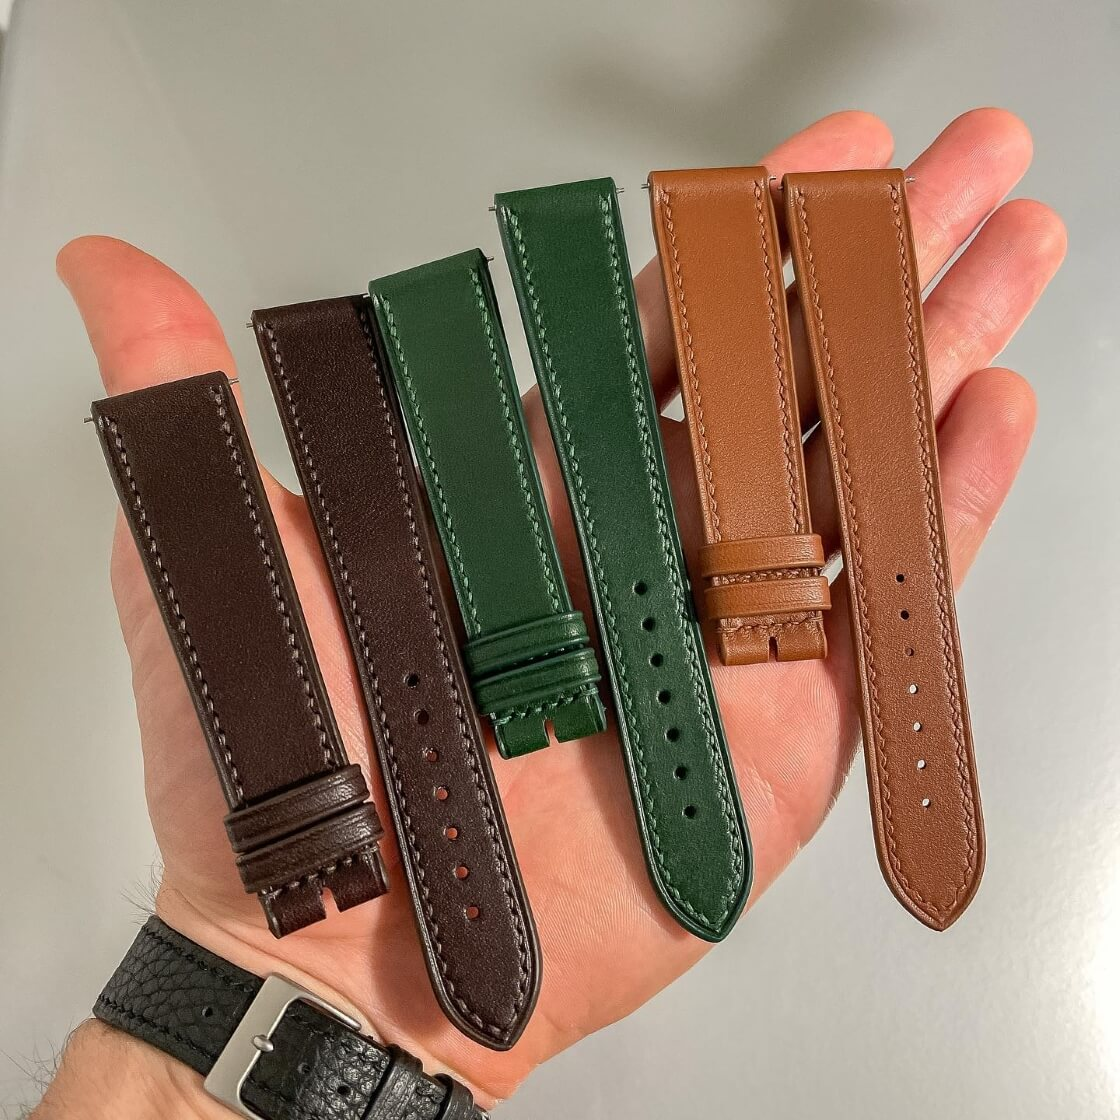
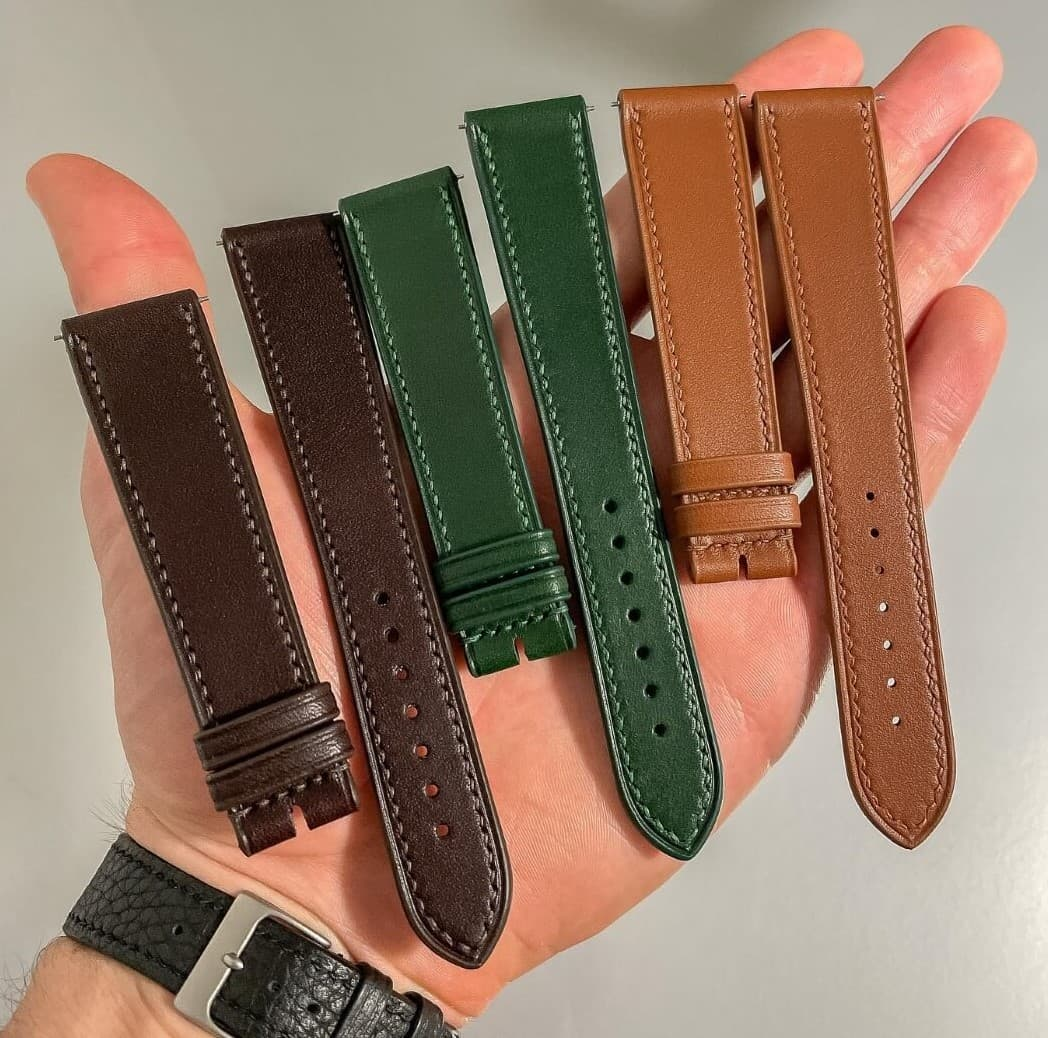
20231022 ff

diff --git a/leather.html b/leather.html
@@ -15,10 +15,10 @@
 
 	<link rel="canonical" href="https://www.straphunter.com/leather" />
 
-	<meta property="og:image" content="https://www.straphunter.com/images/og.png" />
+	<meta property="og:image" content="https://www.straphunter.com/images/cross-stitch-watch-strap-12.jpg" />
 
 	<meta name="twitter:card" content="summary_large_image" />
-	<meta name="twitter:image" content="https://www.straphunter.com/images/og.png" />
+	<meta name="twitter:image" content="https://www.straphunter.com/images/cross-stitch-watch-strap-12.jpg" />
 	<script type="application/ld+json">
     {
       "@context": "https://schema.org",
@@ -197,11 +197,11 @@
 	</ul>
 	
 	<br>
-	<p class="f14">In the photo: Seiko SNZG13 on <a href="https://singularstraps.se/collections/nato-premium" target="_blank" rel="noopener" class="showcase-link">CNS Watch Bands' vintage strap</a></p>
+	<p class="f14">In the photo: Unimatic on custom strap by TwoStitchStraps.</p>
 	
 	
 	</div>
-	<div class="zig-image z1"><img src="images/z-leather.jpg"  alt="brown leather watch strap" /></div>
+	<div class="zig-image z1"><img src="images/cross-stitch-watch-strap-12.jpg"  alt="brown leather watch strap" /></div>
 	</div>
 	</div>
 	</section>

diff --git a/rubber.html b/rubber.html
@@ -15,10 +15,10 @@
 
 	<link rel="canonical" href="https://www.straphunter.com/rubber" />
 
-	<meta property="og:image" content="https://www.straphunter.com/images/og.png" />
+	<meta property="og:image" content="https://www.straphunter.com/images/fkm-rubber-strap-04.jpg" />
 
 	<meta name="twitter:card" content="summary_large_image" />
-	<meta name="twitter:image" content="https://www.straphunter.com/images/og.png" />
+	<meta name="twitter:image" content="https://www.straphunter.com/images/fkm-rubber-strap-04.jpg" />
 
 	<script type="application/ld+json">
     {
@@ -198,10 +198,10 @@
 	</ul>
 	
 	<br>
-	<p class="f14">In the photo: Casio Duro on <a href="https://www.strapcode.com/collections/quick-release-rubber-watch-bands" target="_blank" rel="noopener" class="showcase-link">Strapcode's FKM Quick Release</a></p>
+	<p class="f14">In the photo: Citizen Nighthawk on the FKM quick release.</a></p>
 	
 	</div>
-	<div class="zig-image z1"><img src="images/z-rubber.jpg"  alt="rubber watch straps" /></div>
+	<div class="zig-image z1"><img src="images/fkm-rubber-strap-04.jpg"  alt="rubber watch straps" /></div>
 	</div>
 	</div>
 	</section>

diff --git a/handmade.html b/handmade.html
@@ -15,10 +15,10 @@
 
 	<link rel="canonical" href="https://www.straphunter.com/handmade" />
 
-	<meta property="og:image" content="https://www.straphunter.com/images/og.png" />
+	<meta property="og:image" content="https://www.straphunter.com/images/cross-stitch-watch-strap-06.jpg" />
 
 	<meta name="twitter:card" content="summary_large_image" />
-	<meta name="twitter:image" content="https://www.straphunter.com/images/og.png" />
+	<meta name="twitter:image" content="https://www.straphunter.com/images/cross-stitch-watch-strap-06.jpg" />
 
 	<script type="application/ld+json">
     {
@@ -197,7 +197,7 @@
 	<br>
 		<p class="f14">In the photo: Unimatic UC1 on <a href="https://www.twostitchstraps.com/collections/cross-stitch-leather-watch-straps" target="_blank" rel="noopener" class="showcase-link">TwoStitchStraps' Cross-stitch</a></p>
 	</div>
-	<div class="zig-image z1"><img src="images/z-handmade.jpg"  alt="black handmade leather watch strap" /></div>
+	<div class="zig-image z1"><img src="images/cross-stitch-watch-strap-06.jpg"  alt="black handmade leather watch strap" /></div>
 	</div>
 	</div>
 	</section>

diff --git a/canvas-pass-through.html b/canvas-pass-through.html
@@ -15,10 +15,10 @@
 
 	<link rel="canonical" href="https://www.straphunter.com/canvas-pass-through" />
 
-	<meta property="og:image" content="https://www.straphunter.com/images/og.png" />
+	<meta property="og:image" content="https://www.straphunter.com/images/haveston-canvas-nato-strap-10.jpgg" />
 
 	<meta name="twitter:card" content="summary_large_image" />
-	<meta name="twitter:image" content="https://www.straphunter.com/images/og.png" />
+	<meta name="twitter:image" content="https://www.straphunter.com/images/haveston-canvas-nato-strap-10.jpg" />
 
 	<script type="application/ld+json">
     {
@@ -201,7 +201,7 @@
 	<p class="f14">In the photo: Seiko SNZG13 on <a href="https://www.haveston.com/corp-canvas-series/21-659-HAV942C.html" target="_blank" rel="noopener" class="showcase-link">The Forecastle strap by Haveston</a></p>
 	
 	</div>
-	<div class="zig-image z1"><img src="images/z-canvas-nato.jpeg"  alt="grey canvas nato watch strap" /></div>
+	<div class="zig-image z1"><img src="images/haveston-canvas-nato-strap-10.jpg"  alt="grey canvas nato watch strap" /></div>
 	</div>
 	</div>
 	</section>

diff --git a/canvas-nato.html b/canvas-nato.html
@@ -15,10 +15,10 @@
 
 	<link rel="canonical" href="https://www.straphunter.com/canvas-nato" />
 
-	<meta property="og:image" content="https://www.straphunter.com/images/og.png" />
+	<meta property="og:image" content="https://www.straphunter.com/images/haveston-canvas-nato-strap-10.jpg" />
 
 	<meta name="twitter:card" content="summary_large_image" />
-	<meta name="twitter:image" content="https://www.straphunter.com/images/og.png" />
+	<meta name="twitter:image" content="https://www.straphunter.com/images/haveston-canvas-nato-strap-10.jpg" />
 
 	<script type="application/ld+json">
     {
@@ -201,7 +201,7 @@
 	<p class="f14">In the photo: Seiko SNZG13 on <a href="https://www.haveston.com/corp-canvas-series/21-659-HAV942C.html" target="_blank" rel="noopener" class="showcase-link">The Forecastle strap by Haveston</a></p>
 	
 	</div>
-	<div class="zig-image z1"><img src="images/z-canvas-nato.jpeg"  alt="grey canvas nato watch strap" /></div>
+	<div class="zig-image z1"><img src="images/haveston-canvas-nato-strap-10.jpg"  alt="grey canvas nato watch strap" /></div>
 	</div>
 	</div>
 	</section>

diff --git a/ribbed-nylon.html b/ribbed-nylon.html
@@ -15,10 +15,10 @@
 
 	<link rel="canonical" href="https://www.straphunter.com/ribbed-nylon" />
 
-	<meta property="og:image" content="https://www.straphunter.com/images/og.png" />
+	<meta property="og:image" content="https://www.straphunter.com/images/mustard-yellow-nato-strap-12.jpg" />
 
 	<meta name="twitter:card" content="summary_large_image" />
-	<meta name="twitter:image" content="https://www.straphunter.com/images/og.png" />
+	<meta name="twitter:image" content="https://www.straphunter.com/images/mustard-yellow-nato-strap-12.jpg" />
 	<script type="application/ld+json">
     {
       "@context": "https://schema.org",
@@ -200,7 +200,7 @@
 	<p class="f14">In the photo: Unimatic UC-1 on mustard yellow ribbed nylon strap.</p>
 	
 	</div>
-	<div class="zig-image z1"><img src="images/z-ribbed-nato.jpeg"  alt="mustard yellow ribbed nato strap" /></div>
+	<div class="zig-image z1"><img src="images/mustard-yellow-nato-strap-12.jpg"  alt="mustard yellow ribbed nato strap" /></div>
 	</div>
 	</div>
 	</section>

diff --git a/ribbed-nato.html b/ribbed-nato.html
@@ -15,10 +15,10 @@
 
 	<link rel="canonical" href="https://www.straphunter.com/ribbed-nato" />
 
-	<meta property="og:image" content="https://www.straphunter.com/images/og.png" />
+	<meta property="og:image" content="https://www.straphunter.com/images/mustard-yellow-nato-strap-12.jpg" />
 
 	<meta name="twitter:card" content="summary_large_image" />
-	<meta name="twitter:image" content="https://www.straphunter.com/images/og.png" />
+	<meta name="twitter:image" content="https://www.straphunter.com/images/mustard-yellow-nato-strap-12.jpg" />
 	<script type="application/ld+json">
     {
       "@context": "https://schema.org",
@@ -200,7 +200,7 @@
 	<p class="f14">In the photo: Unimatic UC-1 on mustard yellow ribbed nato strap.</p>
 	
 	</div>
-	<div class="zig-image z1"><img src="images/z-ribbed-nato.jpeg"  alt="mustard yellow ribbed nato strap" /></div>
+	<div class="zig-image z1"><img src="images/mustard-yellow-nato-strap-12.jpg"  alt="mustard yellow ribbed nato strap" /></div>
 	</div>
 	</div>
 	</section>

diff --git a/21mm.html b/21mm.html
@@ -186,7 +186,7 @@
 			
 			<figure>
 			  <img src="images/handmade-velle-alexander.jpg" class="stoposto" alt="custom made straps" />
-			  <figcaption>Skilled artisans such as <a target="_blank" rel="noopener" class="company-link" href="https://www.vellealexander.com/">Velle Alexander</a> excel in creating custom straps tailored to your specific requirements.</figcaption>
+			  <figcaption>Artisans such as <a target="_blank" rel="noopener" class="company-link" href="https://www.vellealexander.com/">Velle Alexander</a> can easily create leather straps tailored to your specific requirements.</figcaption>
 			</figure>
 			
 			<p>Click on the retailer's name to learn more, view their shipping details, full contact information and more. Also, you can click on their website link from this table to visit them instantly.</p>

diff --git a/perlon.html b/perlon.html
@@ -192,10 +192,10 @@
 	<li>Easy to nail a perfect fit</li>
 	</ul>
 	<br>
-	<p class="f14">In the photo: Seiko SNDC43 on <a href="https://www.crownandbuckle.com/straps-by-type/braided-nylon-straps.html" target="_blank" rel="noopener" class="showcase-link">Crown &amp; Buckle's perlon</a></p>
+	<p class="f14">In the photo: Navy blue <a href="https://www.crownandbuckle.com/straps-by-type/braided-nylon-straps.html" target="_blank" rel="noopener" class="showcase-link">Crown &amp; Buckle perlon strap.</a></p>
 	
 	</div>
-	<div class="zig-image z1"><img src="images/z-perlon.jpg"  alt="blue perlon watch strap" /></div>
+	<div class="zig-image z1"><img src="images/perlon-crown-buckle-01.jpg"  alt="blue perlon watch strap" /></div>
 	</div>
 	</div>
 	</section>

diff --git a/deals.html b/deals.html
@@ -149,7 +149,7 @@
 			<p>Check out our list below to score some major savings on watch straps, bracelets and accessories.</p>
 
 			<p>Happy shopping everyone.</p>
-			<p class="f14"><i>Last update: October 20, 2023.</i></p>
+			<p class="f14"><i>Last update: October 22, 2023.</i></p>
 			
 			
 <!-- 			<div class="timeline">
